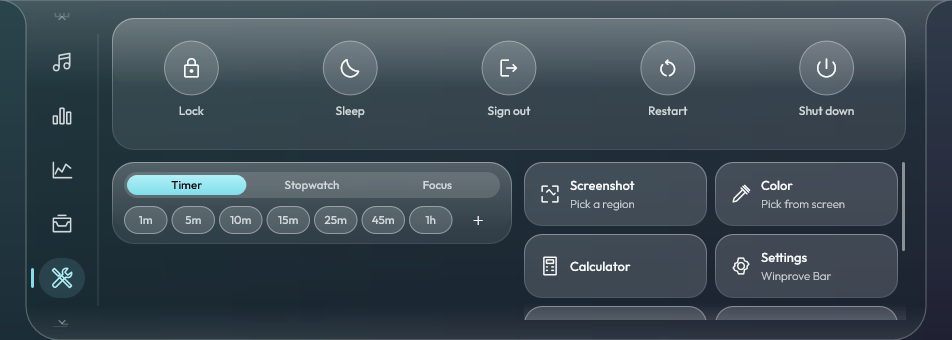
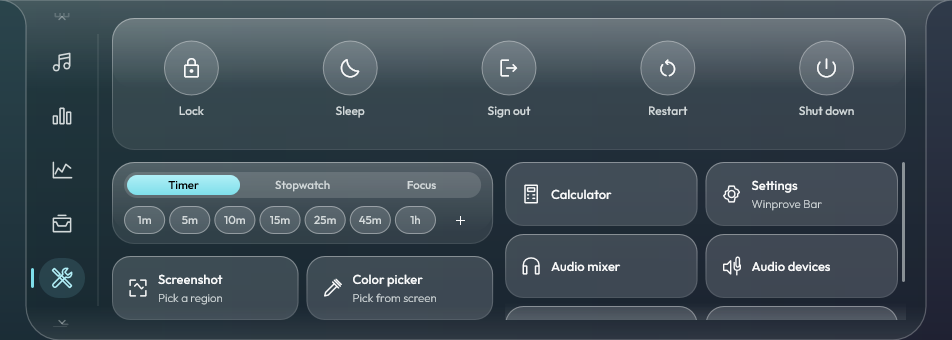
Refresh Winprove Bar Tools documentation

diff --git a/README.md b/README.md
@@ -26,7 +26,7 @@ Open the Bar from the status pill, tray icon or keyboard shortcut. Pin apps, fil
 | **Media** | Audio-source selection, artwork, timeline, playback, shuffle/repeat, mixer and output selection. |
 | **System** | CPU, GPU and memory readings, a choice of graph styles and top processes. |
 | **Network** | Adapter and IP details, upload/download rates, latency and per-process traffic. |
-| **Tools** | Power actions, custom timers, stopwatch, focus sessions and editable utility tiles. |
+| **Tools** | A featured Timer or utility, two labeled or four icon shortcuts, power actions and editable utility tiles. |
 | **Shelf** | Files, text, pinned shortcuts and clipboard history, with search, copy, open and clear actions. |
 | **Devices battery** | Readings for supported wireless devices, display styles, names, icons, scanning and visibility settings. |
 
@@ -45,6 +45,19 @@ Open the Bar from the status pill, tray icon or keyboard shortcut. Pin apps, fil
   </tr>
 </table>
 
+Use **Tools layout** in Bar settings to choose the large card. Keep Timer with custom durations, stopwatch and focus sessions, or choose from 24 tools such as Screenshot, Audio mixer, Calculator, clipboard history and system resources. Pins beneath it can show two labeled cards or four compact icons. The remaining selected tools stay in the utility grid, without repeating the featured tool or visible pins.
+
+<table>
+  <tr>
+    <td width="50%"><strong>Featured screenshot controls</strong><br /><img src="docs/images/bar-tools-screenshot.png" alt="Featured Screenshot tool with capture choices and editor and settings shortcuts" /></td>
+    <td width="50%"><strong>Featured audio mixer</strong><br /><img src="docs/images/bar-tools-mixer.png" alt="Featured Audio mixer with volume and microphone sliders and Apps, Output and Input controls" /></td>
+  </tr>
+  <tr>
+    <td><strong>Two labeled shortcuts</strong><br /><img src="docs/images/bar-tools-pins-labels.png" alt="Two labeled shortcuts beneath the featured tool" /></td>
+    <td><strong>Four icon shortcuts</strong><br /><img src="docs/images/bar-tools-pins-icons.png" alt="Four compact icon shortcuts beneath the featured tool" /></td>
+  </tr>
+</table>
+
 ### Bar settings
 
 Settings is always the last icon in the sidebar. Its collapsible groups cover appearance, layout, the status pill, notifications, tools, media and advanced options. Right-click a Home card and choose **Customize** to rearrange cards.
@@ -53,11 +66,7 @@ Settings is always the last icon in the sidebar. Its collapsible groups cover ap
 
 The status pill can show readings, time and media, with options for persistent visibility, left/right information, hover playback and timer bubbles. More widgets, including calendars, clocks, notes, reminders and Smart Stacks, can be added to the sidebar.
 
-Zephyrus Gprove adds performance, GPU, fan, battery-charge and keyboard controls for supported laptops.
-
 With the Bar along the top edge, double-click its empty top or bottom center to close it. The first click shows a semicircular pulse.
-
-Click media artwork to bring its source forward. For Chrome, Winprove selects the matching tab. If a tab is unavailable or several tabs match, it reports that instead of choosing another window.
 
 ## FPS display
 
